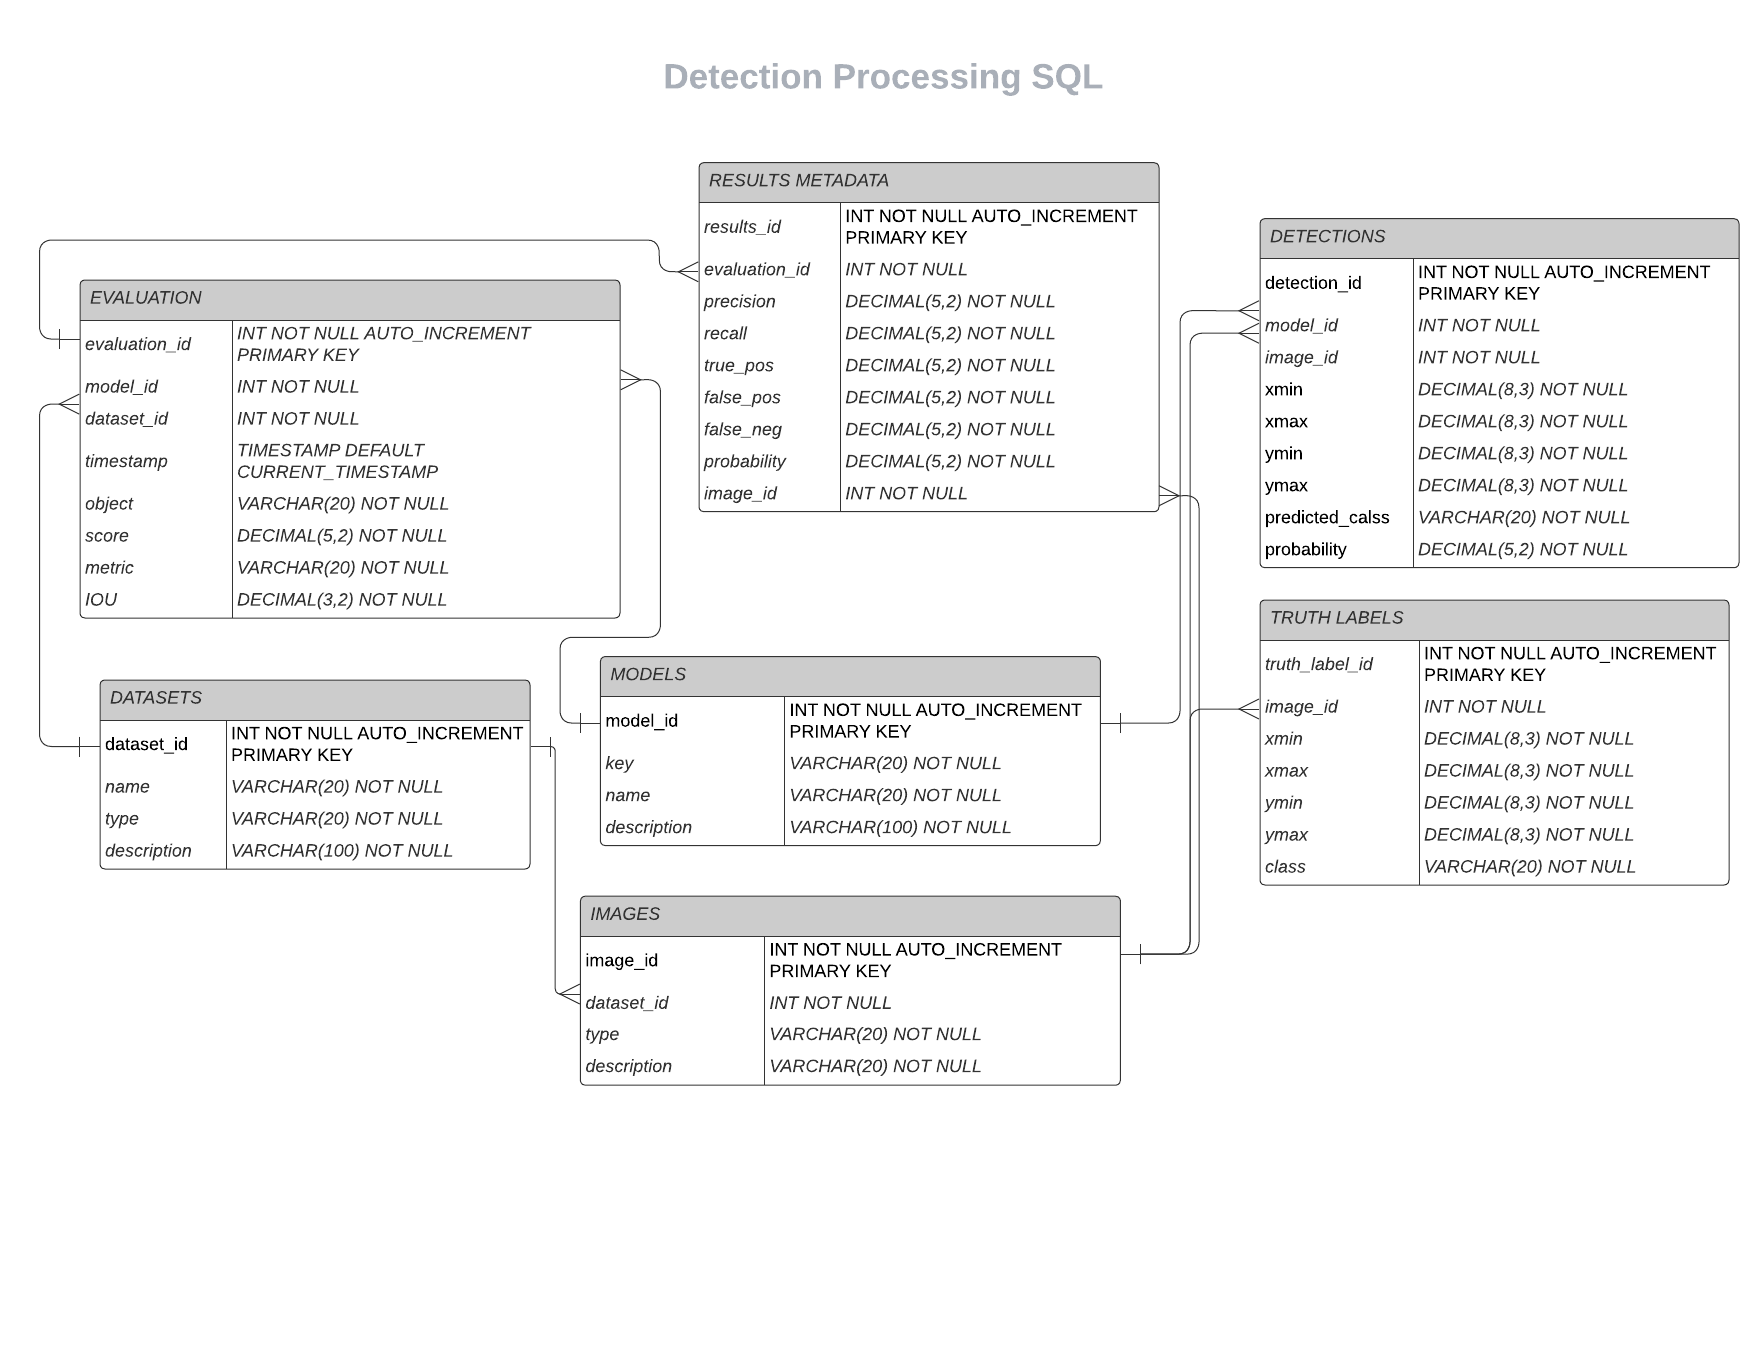
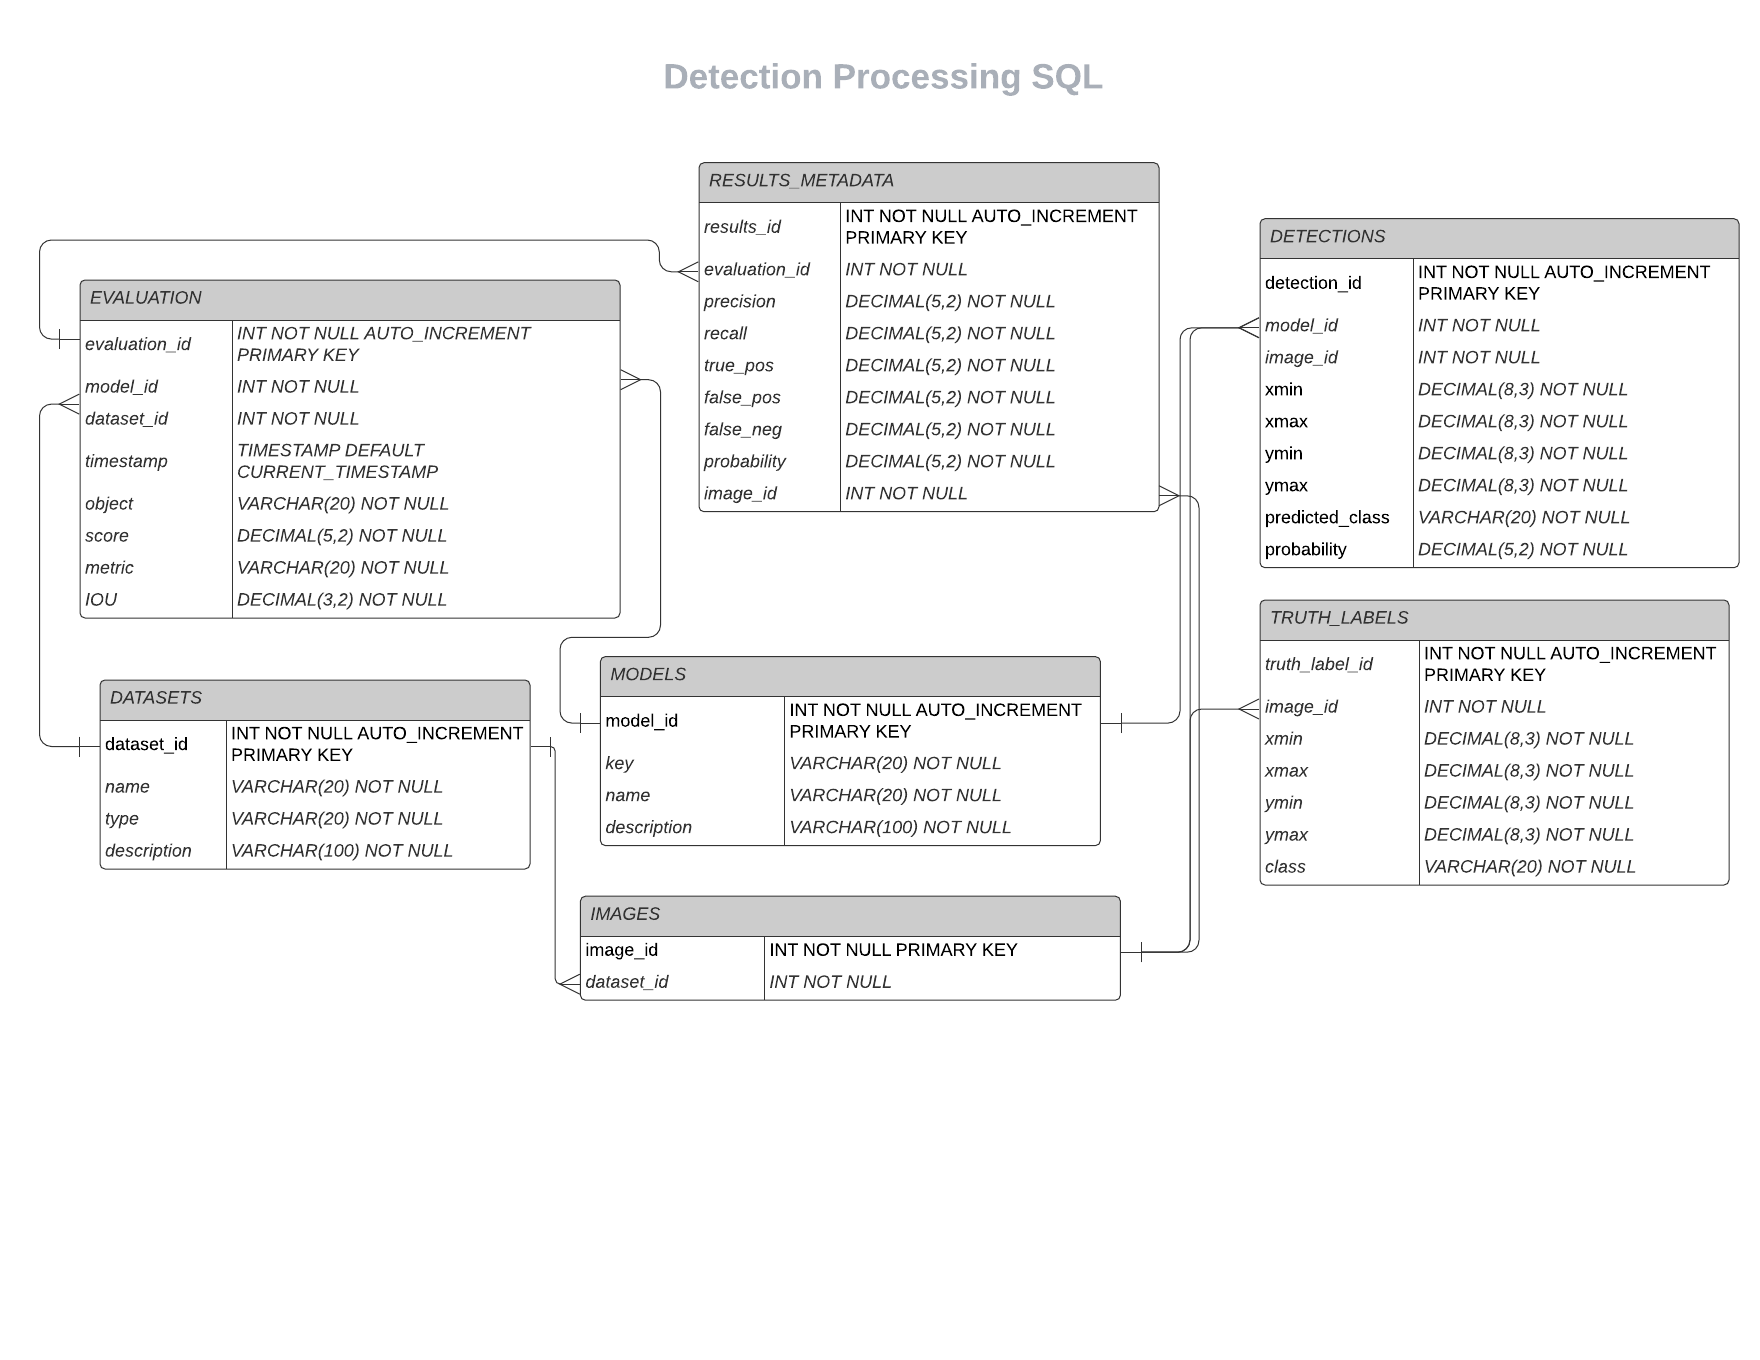
adding insert_data file

diff --git a/insert_data.py b/insert_data.py
@@ -1,0 +1,217 @@
+import os
+import sys
+import argparse
+import mysql.connector
+
+import pandas as pd
+
+DESC = """
+Insert data into SQL DB
+
+Example
+-------
+python insert_data.py --actions DATASETS --typeorkey boat --description "gold datset for boats" --pasword PASSWORD
+
+python insert_data.py --actions MODELS --typeorkey boat --description "model to detect boats" --pasword PASSWORD
+
+python insert_data.py --actions IMAGES --data-path path/to/images/dir --dataset-id DATASET-ID --pasword PASSWORD
+
+python insert_data.py --actions EVALUATION --model-id MODEL-ID --dataset-id DATASET-ID --object boat --score 75 --metric AP_SCORE --iou 0.5 --pasword PASSWORD
+
+python insert_data.py --actions TRUTH_LABELS --data-path /path/to/truth/labels --pasword PASSWORD
+
+python insert_data.py --actions DETECTIONS --data-path /path/to/detections --model-id MODEL-ID --pasword PASSWORD
+
+python insert_data.py --actions RESULTS_METADATA --data-path /path/to/results --evaluation_id EVALUATION-ID --pasword PASSWORD
+"""
+
+parser = argparse.ArgumentParser(description=DESC)
+
+
+parser.add_argument(
+    "--actions",
+    choices=['DETECTIONS', 'DATASETS', "EVALUATION", "IMAGES", "MODELS", "RESULTS_METADATA", "TRUTH_LABELS"],    
+    help="which table are we putting data into"
+)
+parser.add_argument(
+    "--user",
+    help="username",
+    default="svidelock"
+)
+parser.add_argument(
+    "--password",
+    help="password to mysql database"
+)
+parser.add_argument(
+    "--data-path",
+    help="location to the data being ingested, only used for DETECTIONS, IMAGES, RESULTS-METADATA, TRUTH-LABELS"
+)
+parser.add_argument(
+    "--typeorkey",
+    help="descriptor one word"
+)
+parser.add_argument(
+    "--description",
+    help="description of data or model"
+)
+parser.add_argument(
+    "--dataset-id",
+    help="dataset-id, to be used for IMAGES data add"
+)
+parser.add_argument(
+    "--model-id",
+    help="model-id, to be used for DETECTIONS data add"
+)
+parser.add_argument(
+    "--object",
+    help="to be used in results for EVALUATION table"
+)
+parser.add_argument(
+    "--score",
+    help="to be used in results for EVALUATION table"
+)
+parser.add_argument(
+    "--metric",
+    help="to be used in results for EVALUATION table"
+)
+parser.add_argument(
+    "--iou",
+    help="to be used in results for EVALUATION table"
+)
+parser.add_argument(
+    "--evaluation-id",
+    help="evaluation-id, to be used for RESULTS_METADATA data add"
+)
+parser.add_argument(
+    "--data-path",
+    help="location to the data being ingested, only used for DETECTIONS, IMAGES, RESULTS-METADATA, TRUTH-LABELS"
+)
+
+# func for inserting into datasets table
+def add_dataset(name, typee, description):
+
+    # create tuple
+    data = (name, typee, description)
+
+    # create query
+    sql = "INSERT INTO DATASETS (name, type, description) VALUES (%s, %s, %s)"
+
+    return sql, data
+
+# func for inserting into models table
+def add_models(name, key, description):
+
+    # create tuple
+    data = (name, key, description)
+
+    # create query
+    sql = "INSERT INTO MODELS (name, key, description) VALUES (%s, %s, %s)"
+
+    return sql, data
+
+# fun for inserting into images table
+def get_images_metadata(location, dataset_id):
+
+    # read in data
+
+
+    # convert to list of tuples
+    data = []
+
+    # TODO: REMAKE IMAGES TABLE
+
+    # create sql statement
+    sql = "INSERT INTO IMAGES (dataset_id, image_name) VALUES (%s, %s)"
+
+    return sql, data
+
+# func for inserting into evaluation table
+def add_evaluation(model_id, dataset_id, objectt, score, metric, iou):
+
+    # create tuple
+    data = (model_id, dataset_id, objectt, score, metric, iou)
+
+    # create query
+    sql = "INSERT INTO EVALUATION (model_id, dataset_id, object, score, metric, IOU) VALUES (%s, %s, %s, %s, %s, %s)"
+
+    return sql, data
+
+# func for inserting into detections table
+def get_detections(location, model_id):
+
+    # read in data
+
+    # convert to list of tuples, same order as below
+    data = []
+
+    # create sql statement
+    sql = "INSERT INTO DETECTIONS (model_id, image_id, xmin, xmax, ymin, ymax, predicted_class, probability) VALUES (%s, %s, %s, %s, %s, %s, %s, %s)"
+
+    return sql, data
+
+# func for inserting into ground truths table
+def get_ground_truths(location):
+
+    # read in data
+
+    # convert to list of tuples
+    data = []
+
+    # create sql statement
+    sql = "INSERT INTO TRUTH_LABELS (image_id, xmin, xmax, ymin, ymax, class) VALUES (%s, %s, %s, %s, %s, %s)"
+
+    return sql, data
+
+# func for inserting into results_metadata table
+def get_results_metadata(location, evaluation_id):
+
+    # read in data
+
+    # convert to list of tuples
+    data = []
+
+    # create sql statement
+    sql = "INSERT INTO RESULTS_METADATA (evaluation_id, precision, recall, true_pos, false_pos, false_neg, probability, image_id) VALUES (%s, %s, %s, %s, %s, %s, %s, %s)"
+
+    return sql, data
+
+
+if __name__ == "__main__":
+
+    args = parser.parse_args()
+
+    # setup connection to db
+    mydb = mysql.connector.connect(
+        host="localhost",
+        user=args.user,
+        password=args.password,
+        database="atr_evaluation"
+    )
+
+    mycursor = mydb.cursor()
+
+    if args.actions == "DETECTIONS":
+        sql, data = get_detections(args.data_path)
+
+    if args.actions == "DATASETS":
+        sql, data = add_dataset(args.data_path)
+
+    if args.actions == "EVALUATION":
+        sql, data = add_evaluation(args.data_path)
+
+    if args.actions == "IMAGES":
+        sql, data = get_get_images_metadataimages(args.data_path)
+
+    if args.actions == "MODELS":
+        sql, data = add_models(args.data_path)
+
+    if args.actions == "RESULTS_METADATA":
+        sql, data = get_results_metadata(args.data_path)
+
+    if args.actions == "TRUTH_LABELS":
+        sql, data = get_ground_truths(args.data_path)
+
+    # execute sql query
+    mycursor.executemany(sql, data)
+    mydb.commit()
+    print(mycursor.rowcount, "was inserted.")
